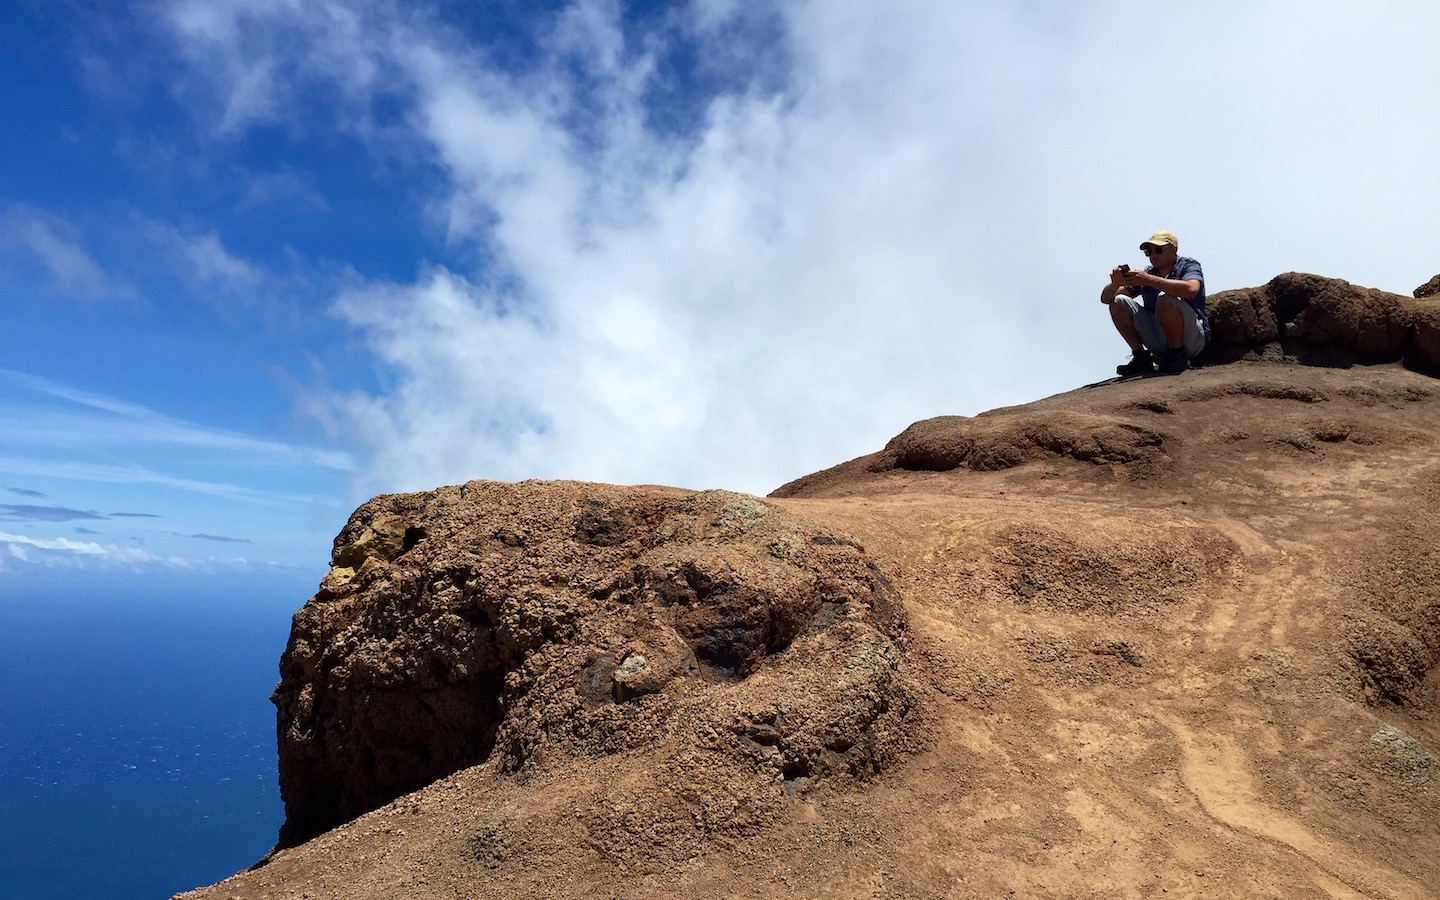
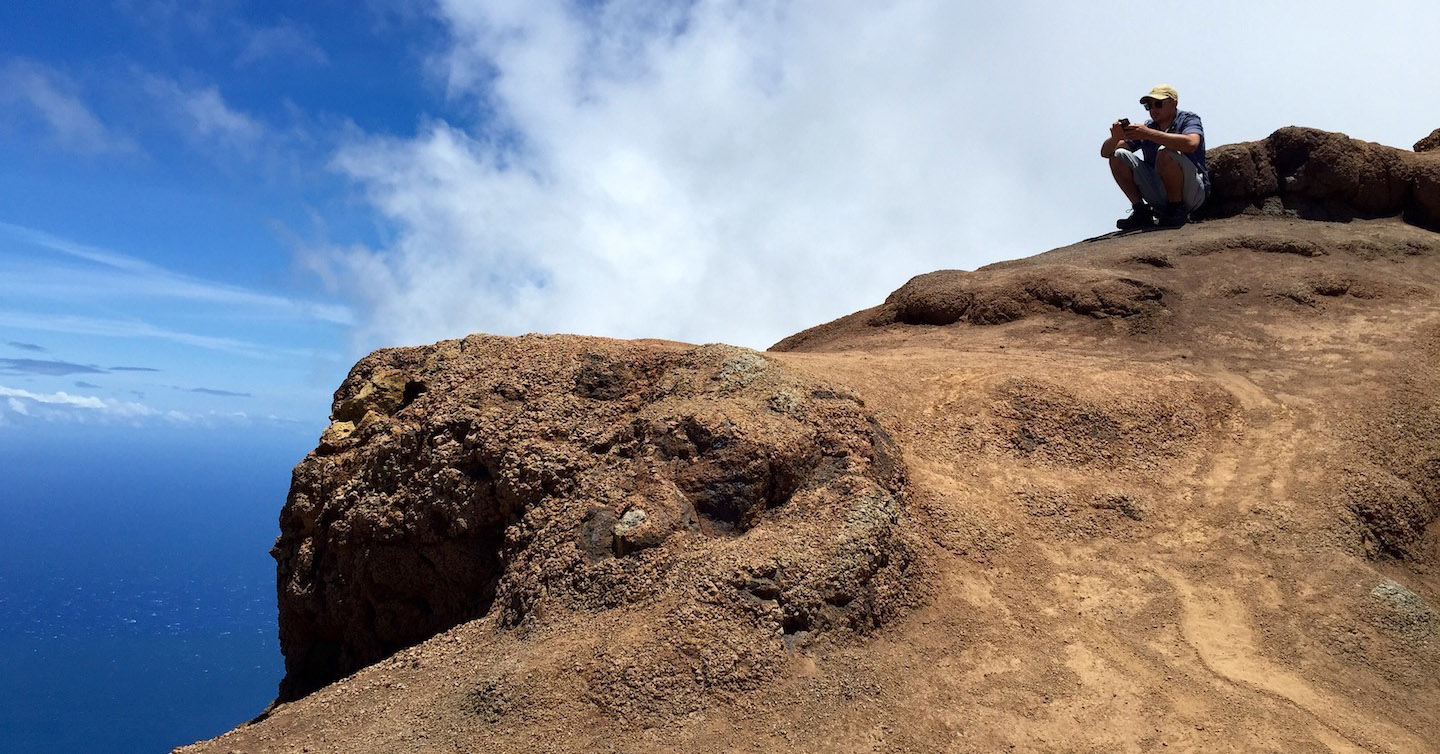
moves contact section up & adds social media metas

diff --git a/src/pages/index.js b/src/pages/index.js
@@ -2,6 +2,7 @@ import React from 'react'
 import Helmet from 'react-helmet'
 import Layout from '../components/layout'
 import Banner from '../components/Banner'
+import Contact from '../components/Contact'
 
 import projBooks from '../assets/images/proj-books.png'
 import favicon from '../assets/images/favicon-32x32.png'
@@ -14,8 +15,13 @@ class HomeIndex extends React.Component {
                 <Helmet
                     title="Gem Kosan's Portfolio"
                     meta={[
-                        { name: 'description', content: 'Sample' },
-                        { name: 'keywords', content: 'sample, something' },
+                        { name: 'og:title', content: 'Gem Kosan\'s Portfolio' },
+                        { name: 'og:site_name', content: 'Web Dev Gem' },
+                        { name: 'og:description', content: 'I\'m a front-end developer with a focus on creating usable UIs with React.' },
+                        { name: 'og:url', content: 'https://www.webdevgem.com' },
+                        { name: 'og:image', content: 'https://www.webdevgem.com/static/banner-d461879033c82559bfc624c3b33fc52d.jpg' },
+                        { name: 'twitter:image:alt', content: 'A man squatting on a rocky precipice with sky above and ocean below.' },
+                        { name: 'twitter:card', content: 'summary_large_image' },
                     ]}
                     htmlAttributes={{
                         lang: 'en-US',
@@ -25,6 +31,7 @@ class HomeIndex extends React.Component {
                 </Helmet>
 
                 <Banner />
+                <Contact />
 
                 <div id="main">
                     <section id="one" className="tiles">

diff --git a/src/pages/404.js b/src/pages/404.js
@@ -1,10 +1,9 @@
 import React from 'react'
 import Helmet from 'react-helmet'
-import Layout from '../components/layout'
 import favicon from '../assets/images/favicon-32x32.png'
 
 const NotFoundPage = () => (
-  <Layout>
+  <>
     <Helmet htmlAttributes={{
       lang: 'en-US',
     }}>
@@ -16,11 +15,11 @@ const NotFoundPage = () => (
         <section id="one">
             <div className="inner">
                 <h1>NOT FOUND</h1>
-                <p>You just hit a route that doesn&#39;t exist... the sadness.</p>
+                <p>You just hit a route that doesn&#39;t exist...</p>
             </div>
         </section>
     </div>
-  </Layout>
+  </>
 )
 
 export default NotFoundPage

diff --git a/src/components/layout.js b/src/components/layout.js
@@ -2,7 +2,6 @@ import React from 'react'
 
 import '../assets/scss/main.scss'
 import Header from './Header'
-import Contact from './Contact'
 import Footer from './Footer'
 
 class Layout extends React.Component {
@@ -41,7 +40,6 @@ class Layout extends React.Component {
                 <div id="wrapper">
                     <Header />
                     {children}
-                    <Contact />
                     <Footer />
                 </div>
             </div>
